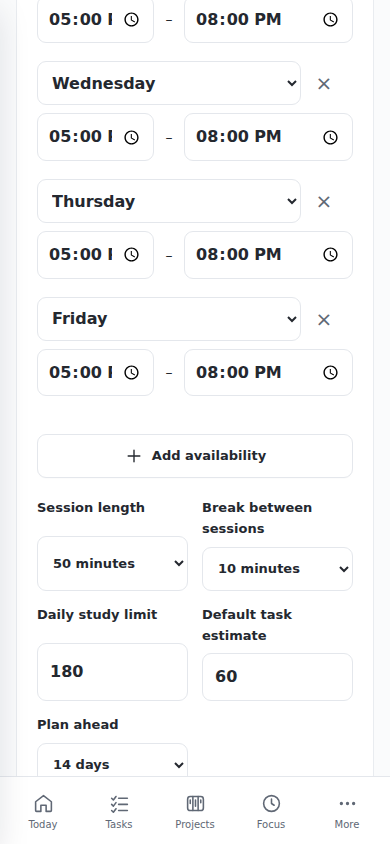
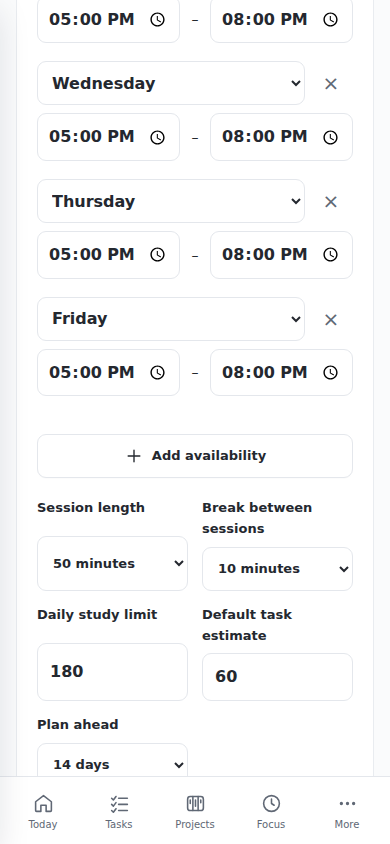
Keep planner time controls equally readable on small screens

diff --git a/app/static/product37.css b/app/static/product37.css
@@ -3,20 +3,24 @@
 body{font-size:14px;line-height:1.6}.product-icon{width:20px;height:20px;flex:none;vertical-align:middle}.app-layout{--sidebar-width:252px}.app-sidebar{width:252px;padding:20px 12px 12px}.sidebar-head{height:56px;margin-bottom:20px}.workspace-icon{width:34px;height:34px;flex-basis:34px;font-size:19px;background:var(--accent);color:#fff;border-radius:10px}.workspace-copy strong{font-size:13px}.workspace-copy>span{font-size:11px}.sidebar-tools{padding:0 3px;margin-bottom:18px}.sidebar-tool,.sidebar-tool:first-child{min-height:39px;font-size:13px}.sidebar-tool[data-global-capture-open]{background:var(--panel);border:1px solid var(--border);margin:7px 0;box-shadow:0 2px 4px #17202d04}.sidebar-nav .nav-item{font-size:13px;min-height:39px;padding:8px 11px;border-radius:9px}.sidebar-nav .nav-item.active{color:var(--accent)!important;background:var(--accent-soft)}.sidebar-nav .nav-item .mlo-navglyph{display:inline-flex;align-items:center;justify-content:center;width:20px;flex-basis:20px}.mlo-sidebar-customize-row,.mlo-sidebar-section-title{font-size:10px;padding:10px 12px}.mlo-sidebar-customize-row button{font-size:11px;min-height:28px}.sidebar-foot>.nav-item{font-size:13px;min-height:38px}.sidebar-account{padding-top:15px}.account-copy strong{font-size:12px}.account-copy span{font-size:10px}.account-avatar{width:32px;height:32px;flex-basis:32px}.desktop-history-bar{height:62px;padding-inline:clamp(24px,3.5vw,54px)}.workspace-breadcrumb{font-size:12px}.app-content.shell{max-width:1640px;padding:38px clamp(24px,3.5vw,54px)}.mlo-space h1,.page-heading h1{font-size:clamp(28px,2.5vw,38px);letter-spacing:-.045em;font-weight:650}.mlo-space h2,.mlo-section-top h2,.mlo-widget-heading h2{font-size:16px;letter-spacing:-.025em}.mlo-page-head,.mlo-home-toolbar,.page-heading{margin-bottom:30px}.mlo-page-head p,.page-heading p{font-size:14px;max-width:620px;line-height:1.7;margin-top:7px}.mlo-kicker,.eyebrow{font-size:10px;letter-spacing:.12em;font-weight:650}.mlo-surface,.card,.mlo-widget{border-radius:var(--radius-md);padding:25px;border-color:var(--product-line);box-shadow:0 2px 4px #17202d02}.mlo-section-top,.mlo-widget-heading{margin-bottom:21px}.mlo-section-top>a,.mlo-widget-heading a{font-size:12px}.mlo-surface+.mlo-surface{margin-top:22px}.mlo-btn,.btn{font-size:13px;min-height:41px;padding:9px 15px;font-weight:550;border-radius:9px}.product-actions{display:flex;align-items:center;gap:10px;flex-wrap:wrap}.product-icon-button{display:inline-flex;align-items:center;justify-content:center;flex:none;width:38px;height:38px;min-width:38px;border:1px solid var(--border);background:var(--panel);color:var(--muted);border-radius:9px}.product-icon-button:hover{background:var(--panel2);color:var(--text)}.product-icon-button.is-pinned{background:var(--accent-soft);color:var(--accent);border-color:var(--accent)}.product-icon-button .product-icon{width:17px;height:17px}
 input:not([type=checkbox]):not([type=radio]):not([type=hidden]):not([type=range]),select,textarea{min-height:43px;font-size:14px;padding:10px 12px;border-radius:9px}label,.mlo-form label{font-size:13px}.field-help,.mlo-subtle{font-size:12px;line-height:1.7}.mlo-form{gap:18px}.mlo-task{padding:16px 2px;gap:13px}.mlo-task-name{font-size:14px;line-height:1.6}.mlo-task-meta{font-size:11px;gap:10px;margin-top:4px}.mlo-check{width:19px;height:19px;min-width:19px;min-height:19px;border-radius:6px}.mlo-task-arrow{font-size:14px;width:30px;min-width:30px;height:34px;display:inline-flex;align-items:center;justify-content:center;border-radius:7px}.mlo-task-arrow:hover{background:var(--panel2)}.mlo-capture{border-radius:12px;padding:7px;margin-bottom:24px;background:var(--panel)}.mlo-capture input{font-size:14px}.mlo-capture .mlo-btn{min-height:38px;font-size:12px}.mlo-tabbar{gap:24px;margin:24px 0}.mlo-tabbar>a{font-size:13px;padding:12px 2px}.mlo-task-filters label>span{font-size:11px}.mlo-task-filters select,.mlo-task-filters input{font-size:13px}.mlo-task-table{font-size:13px}.mlo-task-table th{font-size:11px}.mlo-task-table td{padding-block:13px}.v37-task-tree .v37-tree-children>summary{font-size:11px}.mlo-empty{font-size:13px;padding:36px 15px}.mlo-empty strong{font-size:14px}.mlo-two{gap:24px}.mlo-area-row{padding:15px 0;gap:15px}.mlo-area-row strong{font-size:14px;font-weight:550}.mlo-area-row small{font-size:12px;margin-top:4px}.mlo-area-row>span{font-size:12px;white-space:nowrap}.mlo-area-row>div{min-width:0}.mlo-area-actions{gap:18px;font-size:13px;margin-bottom:25px}.mlo-area-actions>a{min-height:34px;align-content:center}.mlo-area-subhead{margin-top:30px}.mlo-dashboard-grid{gap:24px}.mlo-widget-welcome{padding:0;min-height:265px;border-radius:18px;overflow:hidden;background:linear-gradient(115deg,#eaf1ff,#dce9ff 65%,#cfdefa)}.mlo-welcome-copy{padding:36px;width:78%}.mlo-widget-welcome h2{font-size:clamp(28px,2.5vw,38px);line-height:1.23;letter-spacing:-.05em}.mlo-widget-welcome p{font-size:14px}.mlo-welcome-kicker{font-size:11px;letter-spacing:.07em}.mlo-welcome-button{font-size:12px;min-height:42px}.mlo-blue-art{width:38%;opacity:.85}.mlo-widget-calendar{min-height:265px}.mlo-mini-days a{font-size:12px;min-height:31px}.mlo-small-project{font-size:14px;padding:15px 0}.mlo-v32-stats strong{font-size:34px}.mlo-mini-timer output{font-size:37px}.mlo-mini-timer button{width:36px;height:36px}.mlo-widget-focus p{font-size:13px}.mlo-widget-heading h2>a{font-size:16px}.mlo-widget-agenda{grid-column:span 8}.product-agenda-row{display:flex;align-items:center;gap:16px;padding:15px 0;border-top:1px solid var(--border);color:var(--text)}.product-agenda-row time{min-width:50px;font-size:12px;color:var(--muted);font-variant-numeric:tabular-nums}.product-agenda-row>div{flex:1;min-width:0}.product-agenda-row strong{display:block;font-size:14px;font-weight:550}.product-agenda-row small{color:var(--muted);font-size:11px}.product-agenda-row>.product-icon{color:var(--accent);width:17px;height:17px}.product-empty{display:flex;flex-direction:column;align-items:center;text-align:center;padding:40px 16px;gap:10px;color:var(--muted)}.product-empty>span{display:flex;align-items:center;justify-content:center;width:52px;height:52px;background:var(--panel2);border-radius:16px;color:var(--accent);margin-bottom:8px}.product-empty>span>.product-icon{width:25px;height:25px}.product-empty h3{margin:0;font-size:17px;color:var(--text)}.product-empty p{margin:0 0 12px;font-size:13px;max-width:310px}.product-notice{font-size:13px;border:1px solid var(--border);padding:13px 16px;border-radius:10px;background:var(--panel2);color:var(--text)}.product-feedback:empty{display:none}.product-feedback{font-size:13px;padding:12px 0;color:var(--accent)}.product-settings-links{display:grid;grid-template-columns:repeat(3,minmax(0,1fr));gap:14px}.product-settings-links a{padding:17px;border:1px solid var(--border);border-radius:11px;transition:border-color .15s;color:var(--text)}.product-settings-links a:hover{border-color:var(--accent);background:var(--panel2)}.product-settings-links strong{display:block;font-size:13px;font-weight:550}.product-settings-links span{display:block;color:var(--muted);font-size:12px;margin-top:5px}.settings-layout{gap:24px}.settings-card{margin:0}.login-card{max-width:440px;border-radius:20px;padding:36px;box-shadow:0 16px 64px #17202d08}.login-card h1{font-size:28px}.login-card p,.login-alt{font-size:13px}.login-card .workspace-icon{width:40px;height:40px;flex-basis:40px}.guest-shell{padding-top:70px}.login-form{gap:20px}.login-form .input{min-height:46px}.import-upload{max-width:750px;padding:32px}.upload-zone{padding:38px 20px;border-radius:14px}.upload-zone strong{font-size:19px}.upload-zone>span:not(.upload-symbol){font-size:13px}.import-steps{font-size:13px}.import-review-layout{gap:24px}.assessment-fields label{font-size:11px}.assessment-fields input,.assessment-fields select{font-size:12px!important}.source-page{font-size:12px;line-height:1.85}.course-assessment strong{font-size:14px}.course-assessment small{font-size:12px}.course-progress{display:flex;align-items:center;gap:12px;margin:5px 0 0}.course-progress progress{width:85px;height:5px;accent-color:var(--accent)}.course-progress span{font-size:11px;color:var(--muted)}.study-stats{display:flex;gap:28px;padding:18px 0 25px;border-bottom:1px solid var(--border);margin-bottom:26px;flex-wrap:wrap}.study-stats>div{display:flex;gap:8px;align-items:baseline}.study-stats strong{font-size:23px;letter-spacing:-.04em}.study-stats span{font-size:12px;color:var(--muted)}.study-deadline-type{color:var(--accent);font-size:11px}
 /* Planner shares real task details and the existing calendar. */
-.planner-summary{display:flex;align-items:center;gap:20px;flex-wrap:wrap;margin:-4px 0 24px;color:var(--muted);font-size:12px}.planner-summary>div{display:flex;align-items:center;gap:8px;margin-right:auto}.planner-summary strong{font-weight:500;color:var(--text)}.product-status-dot{width:7px;height:7px;display:inline-block;background:var(--muted);border-radius:50%}.product-status-dot.is-on{background:var(--accent)}.planner-layout{display:grid;grid-template-columns:minmax(0,1.6fr) minmax(330px,1fr);gap:24px;align-items:start}.planner-main{min-width:0}.planner-main>.mlo-surface{margin-top:0;margin-bottom:24px}.planner-settings{min-width:0}.planner-settings h2{margin:5px 0}.planner-settings form{display:grid;gap:20px}.availability-window{display:grid;grid-template-columns:1.2fr 1fr auto 1fr 30px;align-items:center;gap:6px;margin-bottom:10px}.availability-window label{min-width:0}.availability-window select,.availability-window input{width:100%;padding:8px!important;font-size:12px!important;min-width:0;min-height:39px!important}.availability-window .product-icon-button{width:30px;height:34px;min-width:30px;border:0;background:transparent;font-size:20px}.planner-setting-grid{display:grid;grid-template-columns:1fr 1fr;gap:14px}.planner-auto{display:flex!important;align-items:start;gap:11px;border:1px solid var(--border);background:var(--panel2);padding:15px;border-radius:11px;cursor:pointer}.planner-auto input{margin-top:4px}.planner-auto strong{font-size:13px;display:block;font-weight:550}.planner-auto small{display:block;font-size:12px;color:var(--muted);margin-top:5px}.planner-day{margin-top:25px}.planner-day h3{font-size:13px;margin:0 0 12px;color:var(--muted)}.planner-proposal{display:flex;align-items:center;gap:15px;padding:13px 15px;border:1px solid var(--border);border-left:3px solid var(--accent);border-radius:9px;margin-top:8px;background:var(--panel2)}.planner-proposal time{font-size:12px;min-width:48px;font-variant-numeric:tabular-nums}.planner-proposal time small{display:block;color:var(--muted);font-size:10px}.planner-proposal a{font-size:13px;font-weight:500;color:var(--text);flex:1;min-width:0}.planner-proposal>span{font-size:11px;color:var(--muted);white-space:nowrap}.planner-unplaced{border-top:1px solid var(--border);margin-top:26px;padding-top:12px}.planner-unplaced h3{font-size:14px}.planner-unplaced h3 span{color:var(--muted);margin-left:5px;font-weight:400}.planner-unplaced>div{padding:10px 0}.planner-unplaced a{font-size:13px;color:var(--text)}.planner-unplaced small{display:block;color:var(--muted);font-size:12px}.planner-session{display:flex;align-items:center;gap:11px;border-top:1px solid var(--border);padding:16px 0}.planner-session-icon{display:flex;padding:10px;background:var(--accent-soft);color:var(--accent);border-radius:10px}.planner-session-copy{flex:1;min-width:0}.planner-session-copy a{display:block;font-size:13px;font-weight:500;color:var(--text)}.planner-session-copy small{font-size:11px;color:var(--muted);display:block;margin-top:3px}.planner-footer{display:flex;gap:10px;margin-top:22px;flex-wrap:wrap}.planner-preview .mlo-section-top>span{font-size:12px;color:var(--muted)}.mlo-calendar-event{font-size:11px;padding:5px 6px}.app-footer{font-size:11px;padding-top:40px}.v37-wizard h1{font-size:30px}.v37-wizard p{font-size:13px}.v37-wizard{border-radius:18px;padding:35px}.v37-wizard label{font-size:13px}.v37-ticket-title{line-height:1.6}.v37-ticket{border-radius:11px}.task-inspector header{padding:23px}.task-inspector [data-inspector-body]{padding:28px}.task-inspector label{font-size:13px}.task-inspector h2{font-size:23px}
+.planner-summary{display:flex;align-items:center;gap:20px;flex-wrap:wrap;margin:-4px 0 24px;color:var(--muted);font-size:12px}.planner-summary>div{display:flex;align-items:center;gap:8px;margin-right:auto}.planner-summary strong{font-weight:500;color:var(--text)}.product-status-dot{width:7px;height:7px;display:inline-block;background:var(--muted);border-radius:50%}.product-status-dot.is-on{background:var(--accent)}.planner-layout{display:grid;grid-template-columns:minmax(0,1.6fr) minmax(330px,1fr);gap:24px;align-items:start}.planner-main{min-width:0}.planner-main>.mlo-surface{margin-top:0;margin-bottom:24px}.planner-settings{min-width:0}.planner-settings h2{margin:5px 0}.planner-settings form{display:grid;gap:20px}.planner-setting-grid{display:grid;grid-template-columns:1fr 1fr;gap:14px}.planner-auto{display:flex!important;align-items:start;gap:11px;border:1px solid var(--border);background:var(--panel2);padding:15px;border-radius:11px;cursor:pointer}.planner-auto input{margin-top:4px}.planner-auto strong{font-size:13px;display:block;font-weight:550}.planner-auto small{display:block;font-size:12px;color:var(--muted);margin-top:5px}.planner-day{margin-top:25px}.planner-day h3{font-size:13px;margin:0 0 12px;color:var(--muted)}.planner-proposal{display:flex;align-items:center;gap:15px;padding:13px 15px;border:1px solid var(--border);border-left:3px solid var(--accent);border-radius:9px;margin-top:8px;background:var(--panel2)}.planner-proposal time{font-size:12px;min-width:48px;font-variant-numeric:tabular-nums}.planner-proposal time small{display:block;color:var(--muted);font-size:10px}.planner-proposal a{font-size:13px;font-weight:500;color:var(--text);flex:1;min-width:0}.planner-proposal>span{font-size:11px;color:var(--muted);white-space:nowrap}.planner-unplaced{border-top:1px solid var(--border);margin-top:26px;padding-top:12px}.planner-unplaced h3{font-size:14px}.planner-unplaced h3 span{color:var(--muted);margin-left:5px;font-weight:400}.planner-unplaced>div{padding:10px 0}.planner-unplaced a{font-size:13px;color:var(--text)}.planner-unplaced small{display:block;color:var(--muted);font-size:12px}.planner-session{display:flex;align-items:center;gap:11px;border-top:1px solid var(--border);padding:16px 0}.planner-session-icon{display:flex;padding:10px;background:var(--accent-soft);color:var(--accent);border-radius:10px}.planner-session-copy{flex:1;min-width:0}.planner-session-copy a{display:block;font-size:13px;font-weight:500;color:var(--text)}.planner-session-copy small{font-size:11px;color:var(--muted);display:block;margin-top:3px}.planner-footer{display:flex;gap:10px;margin-top:22px;flex-wrap:wrap}.planner-preview .mlo-section-top>span{font-size:12px;color:var(--muted)}.mlo-calendar-event{font-size:11px;padding:5px 6px}.app-footer{font-size:11px;padding-top:40px}.v37-wizard h1{font-size:30px}.v37-wizard p{font-size:13px}.v37-wizard{border-radius:18px;padding:35px}.v37-wizard label{font-size:13px}.v37-ticket-title{line-height:1.6}.v37-ticket{border-radius:11px}.task-inspector header{padding:23px}.task-inspector [data-inspector-body]{padding:28px}.task-inspector label{font-size:13px}.task-inspector h2{font-size:23px}
 @media(min-width:821px){.app-sidebar{width:252px}.sidebar-collapsed .app-sidebar{width:70px}.sidebar-collapsed .app-layout{--sidebar-width:70px}}
 @media(max-width:1200px){.planner-layout{grid-template-columns:minmax(0,1fr)}.planner-settings{max-width:650px}.product-settings-links{grid-template-columns:repeat(2,minmax(0,1fr))}.mlo-two{gap:20px}.mlo-widget-agenda{grid-column:span 12}}
 @media(max-width:820px){.app-sidebar{padding-top:20px}.app-content.shell{padding:28px 22px 108px}.mobile-header{height:63px}.mobile-header .icon-btn{width:40px;height:44px;min-height:44px}.mobile-brand strong{font-size:12px}.mobile-dock{min-height:68px}.mobile-dock-item{gap:5px;font-size:10px}.mobile-dock-item .product-icon{width:21px;height:21px}.mlo-widget-agenda{grid-column:1/-1}.sidebar-nav .nav-item{min-height:42px}.product-actions{width:auto}.planner-settings{max-width:none}.mlo-welcome-copy{padding:30px}.mlo-widget-welcome{min-height:250px}}
-@media(max-width:700px){.app-content.shell{padding:27px 16px 108px}.mlo-space h1,.page-heading h1{font-size:29px}.mlo-page-head p,.page-heading p{font-size:13px}.mlo-page-head,.mlo-home-toolbar,.page-heading{margin-bottom:25px}.mlo-surface,.card,.mlo-widget{padding:20px;border-radius:14px}.mlo-space h2,.mlo-section-top h2,.mlo-widget-heading h2{font-size:15px}.mlo-page-head>.product-actions{width:100%}.mlo-page-head>.product-actions>.mlo-btn{flex:1}.product-actions{gap:8px}.btn,.mlo-btn{min-height:44px;font-size:13px;padding:10px 13px}input:not([type=checkbox]):not([type=radio]):not([type=hidden]):not([type=range]),select,textarea{font-size:16px;min-height:44px}.mlo-check{width:24px;height:24px;min-width:24px;min-height:24px}.mlo-task-name{font-size:14px}.mlo-task{padding:17px 0}.mlo-task-meta{font-size:11px}.mlo-task-filters select,.mlo-task-filters input{font-size:16px}.mlo-capture{padding:5px}.mlo-capture input{font-size:16px;min-width:0}.mlo-capture .mlo-btn{font-size:12px;padding:8px 11px}.mlo-tabbar>a{font-size:13px}.mlo-widget-welcome{padding:0;min-height:250px}.mlo-welcome-copy{padding:28px 24px;width:85%}.mlo-widget-welcome h2{font-size:30px}.mlo-widget-welcome p{font-size:13px}.mlo-blue-art{opacity:.4}.mlo-mini-days a{min-height:32px}.product-settings-links{grid-template-columns:1fr}.product-settings-links a{min-height:72px}.planner-layout{gap:0}.planner-main>.mlo-surface{margin-bottom:20px}.planner-proposal{gap:10px;padding:12px}.planner-proposal>span{font-size:10px}.planner-proposal a{font-size:13px}.planner-session{gap:9px;flex-wrap:wrap}.planner-session-icon{display:none}.planner-session-copy{flex-basis:55%}.planner-session-copy small{font-size:12px}.product-icon-button{width:44px;height:44px}.planner-setting-grid{gap:14px}.availability-window{grid-template-columns:1.2fr 1fr auto 1fr 27px;gap:4px}.availability-window select,.availability-window input{font-size:12px!important;min-height:44px!important;padding:8px 3px!important}.planner-auto small{font-size:12px}.planner-summary{gap:10px;font-size:11px}.planner-summary>div{width:100%}.planner-footer>.mlo-btn{flex:1}.study-stats{gap:20px}.study-stats strong{font-size:22px}.study-stats span{font-size:11px}.mlo-area-actions{gap:14px}.mlo-area-row>span{font-size:11px}.source-page{font-size:12px}.course-assessment strong{font-size:14px}.assessment-fields input,.assessment-fields select{font-size:16px!important}.assessment-fields label{font-size:12px}.import-upload{padding:24px}.upload-zone{padding:30px 16px}.upload-zone strong{font-size:18px}.guest-shell{padding:30px 14px}.login-card{padding:30px 23px}.login-card h1{font-size:26px}.v37-wizard{padding:27px 22px}.v37-wizard h1{font-size:27px}.mlo-form-footer{flex-wrap:wrap;gap:12px}.mlo-form-footer>.mlo-btn{flex:1}.product-agenda-row{gap:12px}}
+@media(max-width:700px){.app-content.shell{padding:27px 16px 108px}.mlo-space h1,.page-heading h1{font-size:29px}.mlo-page-head p,.page-heading p{font-size:13px}.mlo-page-head,.mlo-home-toolbar,.page-heading{margin-bottom:25px}.mlo-surface,.card,.mlo-widget{padding:20px;border-radius:14px}.mlo-space h2,.mlo-section-top h2,.mlo-widget-heading h2{font-size:15px}.mlo-page-head>.product-actions{width:100%}.mlo-page-head>.product-actions>.mlo-btn{flex:1}.product-actions{gap:8px}.btn,.mlo-btn{min-height:44px;font-size:13px;padding:10px 13px}input:not([type=checkbox]):not([type=radio]):not([type=hidden]):not([type=range]),select,textarea{font-size:16px;min-height:44px}.mlo-check{width:24px;height:24px;min-width:24px;min-height:24px}.mlo-task-name{font-size:14px}.mlo-task{padding:17px 0}.mlo-task-meta{font-size:11px}.mlo-task-filters select,.mlo-task-filters input{font-size:16px}.mlo-capture{padding:5px}.mlo-capture input{font-size:16px;min-width:0}.mlo-capture .mlo-btn{font-size:12px;padding:8px 11px}.mlo-tabbar>a{font-size:13px}.mlo-widget-welcome{padding:0;min-height:250px}.mlo-welcome-copy{padding:28px 24px;width:85%}.mlo-widget-welcome h2{font-size:30px}.mlo-widget-welcome p{font-size:13px}.mlo-blue-art{opacity:.4}.mlo-mini-days a{min-height:32px}.product-settings-links{grid-template-columns:1fr}.product-settings-links a{min-height:72px}.planner-layout{gap:0}.planner-main>.mlo-surface{margin-bottom:20px}.planner-proposal{gap:10px;padding:12px}.planner-proposal>span{font-size:10px}.planner-proposal a{font-size:13px}.planner-session{gap:9px;flex-wrap:wrap}.planner-session-icon{display:none}.planner-session-copy{flex-basis:55%}.planner-session-copy small{font-size:12px}.product-icon-button{width:44px;height:44px}.planner-setting-grid{gap:14px}.planner-auto small{font-size:12px}.planner-summary{gap:10px;font-size:11px}.planner-summary>div{width:100%}.planner-footer>.mlo-btn{flex:1}.study-stats{gap:20px}.study-stats strong{font-size:22px}.study-stats span{font-size:11px}.mlo-area-actions{gap:14px}.mlo-area-row>span{font-size:11px}.source-page{font-size:12px}.course-assessment strong{font-size:14px}.assessment-fields input,.assessment-fields select{font-size:16px!important}.assessment-fields label{font-size:12px}.import-upload{padding:24px}.upload-zone{padding:30px 16px}.upload-zone strong{font-size:18px}.guest-shell{padding:30px 14px}.login-card{padding:30px 23px}.login-card h1{font-size:26px}.v37-wizard{padding:27px 22px}.v37-wizard h1{font-size:27px}.mlo-form-footer{flex-wrap:wrap;gap:12px}.mlo-form-footer>.mlo-btn{flex:1}.product-agenda-row{gap:12px}}
 @media(prefers-reduced-motion:reduce){.product-settings-links a{transition:none}}
 
 .workspace-copy{min-width:0;flex:1}.workspace-copy strong{white-space:normal;overflow:visible;text-overflow:clip;line-height:1.35;font-size:12px}.sidebar-nav .nav-item.active{color:var(--text)!important}.sidebar-tool>span{white-space:nowrap}.mlo-widget-agenda{grid-column:span 4}.mlo-widget-capture{grid-column:span 8}.mlo-widget-agenda .mlo-empty{padding:20px 0}.mlo-widget-agenda .product-agenda-row{gap:10px}.mlo-widget-agenda .product-agenda-row strong{font-size:13px}.mlo-widget-agenda .product-agenda-row>.product-icon{display:none}
 @media(max-width:1000px){.mlo-widget-agenda,.mlo-widget-capture{grid-column:1/-1}}
 
-@media(max-width:700px){.availability-window{grid-template-columns:minmax(0,1fr) 14px minmax(0,1fr) 44px;gap:8px;margin-bottom:18px}.availability-window>label:first-child{grid-column:1/4;grid-row:1}.availability-window>button{grid-column:4;grid-row:1;width:44px;height:44px}.availability-window>label:nth-child(2){grid-column:1;grid-row:2}.availability-window>span{grid-column:2;grid-row:2;text-align:center}.availability-window>label:nth-child(4){grid-column:3/5;grid-row:2}.availability-window select,.availability-window input{font-size:16px!important;padding:9px 10px!important}}
+@media(max-width:700px){}
 
 .product-feedback{color:var(--text)}
-.availability-window{grid-template-columns:minmax(0,1fr) 14px minmax(0,1fr) 34px;gap:8px;margin-bottom:18px}.availability-window>label:first-child{grid-column:1/4;grid-row:1}.availability-window>button{grid-column:4;grid-row:1}.availability-window>label:nth-child(2){grid-column:1;grid-row:2}.availability-window>span{grid-column:2;grid-row:2;text-align:center}.availability-window>label:nth-child(4){grid-column:3/5;grid-row:2}.availability-window select,.availability-window input{font-size:14px!important;padding:9px 10px!important}
-@media(max-width:700px){.availability-window{grid-template-columns:minmax(0,1fr) 14px minmax(0,1fr) 44px}.availability-window select,.availability-window input{font-size:16px!important}}
+
+@media(max-width:700px){}
 
 .planner-auto{flex-direction:row!important}
+
+/* Equal time fields keep the native AM/PM control readable on phones. */
+.availability-window{display:grid;grid-template-columns:minmax(0,1fr) 14px minmax(0,1fr);align-items:center;gap:8px;margin-bottom:18px}.availability-window label{min-width:0}.availability-window>label:first-child{grid-column:1/-1;grid-row:1;margin-right:48px}.availability-window>button{grid-column:3;grid-row:1;justify-self:end;width:34px;height:38px;min-width:34px;border:0;background:transparent;font-size:20px}.availability-window>label:nth-child(2){grid-column:1;grid-row:2}.availability-window>span{grid-column:2;grid-row:2;text-align:center}.availability-window>label:nth-child(4){grid-column:3;grid-row:2}.availability-window select,.availability-window input{width:100%;min-width:0;min-height:43px!important;font-size:14px!important;padding:9px 10px!important}
+@media(max-width:700px){.availability-window>button{width:44px;height:44px;min-width:44px}.availability-window select,.availability-window input{font-size:16px!important;min-height:44px!important}}

diff --git a/tests_v37_browser.py b/tests_v37_browser.py
@@ -141,6 +141,8 @@ with tempfile.TemporaryDirectory() as temporary:
                 page.evaluate("document.documentElement.classList.remove('dark');document.documentElement.dataset.palette='ocean'")
                 page.set_viewport_size({'width':390,'height':844})
                 assert page.evaluate('document.documentElement.scrollWidth<=innerWidth+1')
+                assert page.locator('[data-window-field=start]').first.bounding_box()['width']>=130
+                assert abs(page.locator('[data-window-field=start]').first.bounding_box()['width']-page.locator('[data-window-field=end]').first.bounding_box()['width'])<1
                 page.evaluate('scrollTo(0,0)');page.screenshot(path=str(output/'planner-mobile.png'));audit(page,'planner-mobile')
                 page.locator('[data-planner-preferences]').scroll_into_view_if_needed();page.screenshot(path=str(output/'planner-availability-mobile.png'))
                 page.get_by_role('button',name='Apply to my calendar',exact=True).click()
